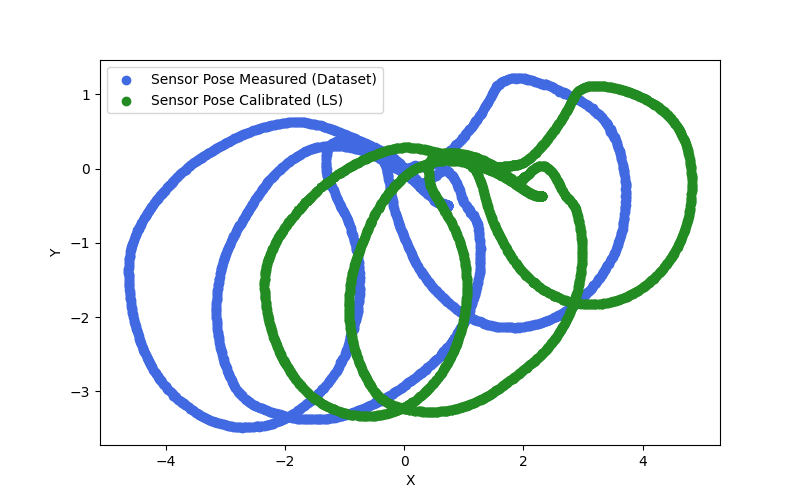
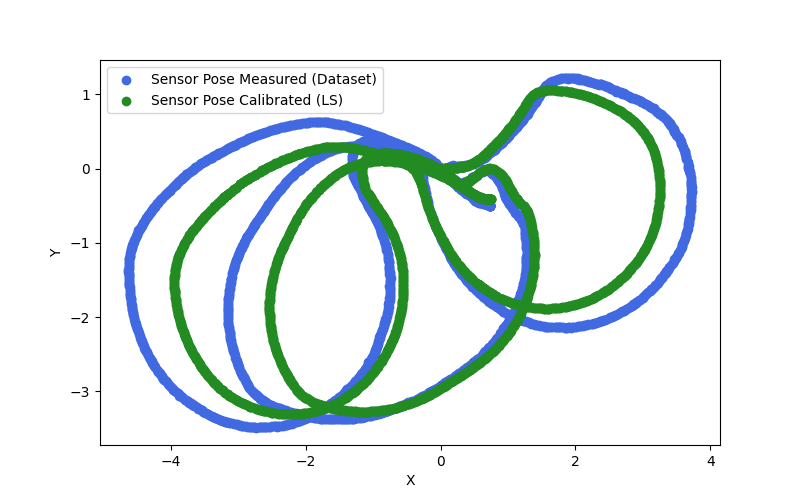
fix della vita

diff --git a/index.html b/index.html
@@ -16,7 +16,6 @@
       };
     </script>
     <style>
-        /* Global page settings */
         body {
             font-family: 'Helvetica Neue', Arial, sans-serif;
             margin: 0;
@@ -24,7 +23,6 @@
             background: #f9f9f9;
             color: #333;
         }
-        /* Header styling */
         header {
             background: #045d10;
             color: white;
@@ -32,7 +30,6 @@
             text-align: center;
             box-shadow: 0 2px 4px rgba(0,0,0,0.2);
         }
-        /* Main container */
         .container {
             max-width: 800px;
             margin: 2rem auto;
@@ -41,14 +38,11 @@
             border-radius: 8px;
             box-shadow: 0 4px 12px rgba(0,0,0,0.1);
         }
-        /* Headings */
         h1 { font-size: 2rem; margin-bottom: 0.5rem; }
         h2 { font-size: 1.5rem; margin-top: 2rem; border-bottom: 2px solid #045d10; padding-bottom: 0.3rem; }
-        /* Paragraphs and lists */
         p { line-height: 1.6; margin: 1rem 0; }
         ul { margin: 1rem 0 1rem 1.5rem; }
         li { margin-bottom: 0.5rem; }
-        /* Code blocks */
         pre {
             background: #eef;
             padding: 1rem;
@@ -56,7 +50,6 @@
             border-radius: 4px;
         }
         code { font-family: "Courier New", Courier, monospace; }
-        /* Images */
         img { max-width: 100%; display: block; margin: 1rem 0; border: 1px solid #ccc; border-radius: 4px; }
     </style>
 </head>

diff --git a/TricycleRobotCalibration/main.py b/TricycleRobotCalibration/main.py
@@ -286,16 +286,18 @@ def compute_jacobian(X: State, delta_robot: State, Z: Pose,
             h_minus = prediction_function(
                 actual_sensor_pose=sensor_pose_minus, 
                 delta_robot=delta_robot)
-
+            
         error_plus = error_function(
             delta_sensor_predicted=h_plus,
-            delta_sensor_measured=Z)
-        
+            delta_sensor_measured=Z
+        )
+
         error_minus = error_function(
             delta_sensor_predicted=h_minus,
-            delta_sensor_measured=Z)
+            delta_sensor_measured=Z
+        )
             
-        h_delta = error_plus - error_minus
+        h_delta = error_plus - error_minus # h_plus.to_vector() - h_minus.to_vector()
         J[:, i] = h_delta/(2*EPSILON)
     
     return J
@@ -380,7 +382,6 @@ class LS:
             b += J.T @ self.omega @ error.reshape(-1, 1)
             total_chi += chi
 
-        #H += np.diag([3,3,3,30,800,800,800])
         H += 2 * np.eye(STATE_DIM)
 
         return H, b, total_chi, num_outliers
@@ -433,8 +434,11 @@ if __name__ == "__main__":
 
     Ks, Kt, a, delta_s = X_final.kinem_param
     sensor_pose = X_final.sensor_pose
+    inv_sensor_pose = Pose.from_transformation(np.linalg.inv(sensor_pose.to_transformation()))
 
-    actual_robot_pose = Pose(0.0, 0.0, 0.0)
+    _, _, _, _, init_sensor_meas, _ = algo.dataset.get_measurement(0)
+    curret_sensor_pose = Pose.from_vector(init_sensor_meas)
+    sensor_calibrated[0] = curret_sensor_pose.to_vector()[:2]
 
     for i in range(DATA_SIZE-1):
 
@@ -442,19 +446,19 @@ if __name__ == "__main__":
 
         delta_robot, _ = model_prediction(steer_tick, current_tract_tick, next_tract_tick,
                                           Ks, Kt, a, delta_s)
+    
+        delta_sensor = Pose.from_transformation(
+            inv_sensor_pose.to_transformation() @ delta_robot.to_transformation() @ sensor_pose.to_transformation()
+        )
+
+        curret_sensor_pose = Pose.from_transformation(
+            curret_sensor_pose.to_transformation() @ delta_sensor.to_transformation()) 
         
-        actual_robot_pose = Pose.from_transformation(
-            actual_robot_pose.to_transformation() @ delta_robot.to_transformation())
-        
-        world_sensor_pose_calibrated = Pose.from_transformation(
-            actual_robot_pose.to_transformation() @ sensor_pose.to_transformation())
-        
-        sensor_calibrated[i] = world_sensor_pose_calibrated.to_vector()[:2]
+        sensor_calibrated[i] = curret_sensor_pose.to_vector()[:2]
 
     fig, ax = plt.subplots()
 
     ax.scatter(algo.dataset.sensor_poses[:, 0], algo.dataset.sensor_poses[:, 1], color="royalblue", label="Sensor Pose Measured (Dataset)")
-
     ax.scatter(sensor_calibrated[:, 0], sensor_calibrated[:, 1], color="forestgreen", label="Sensor Pose Calibrated (LS)")
 
     ax.legend()
